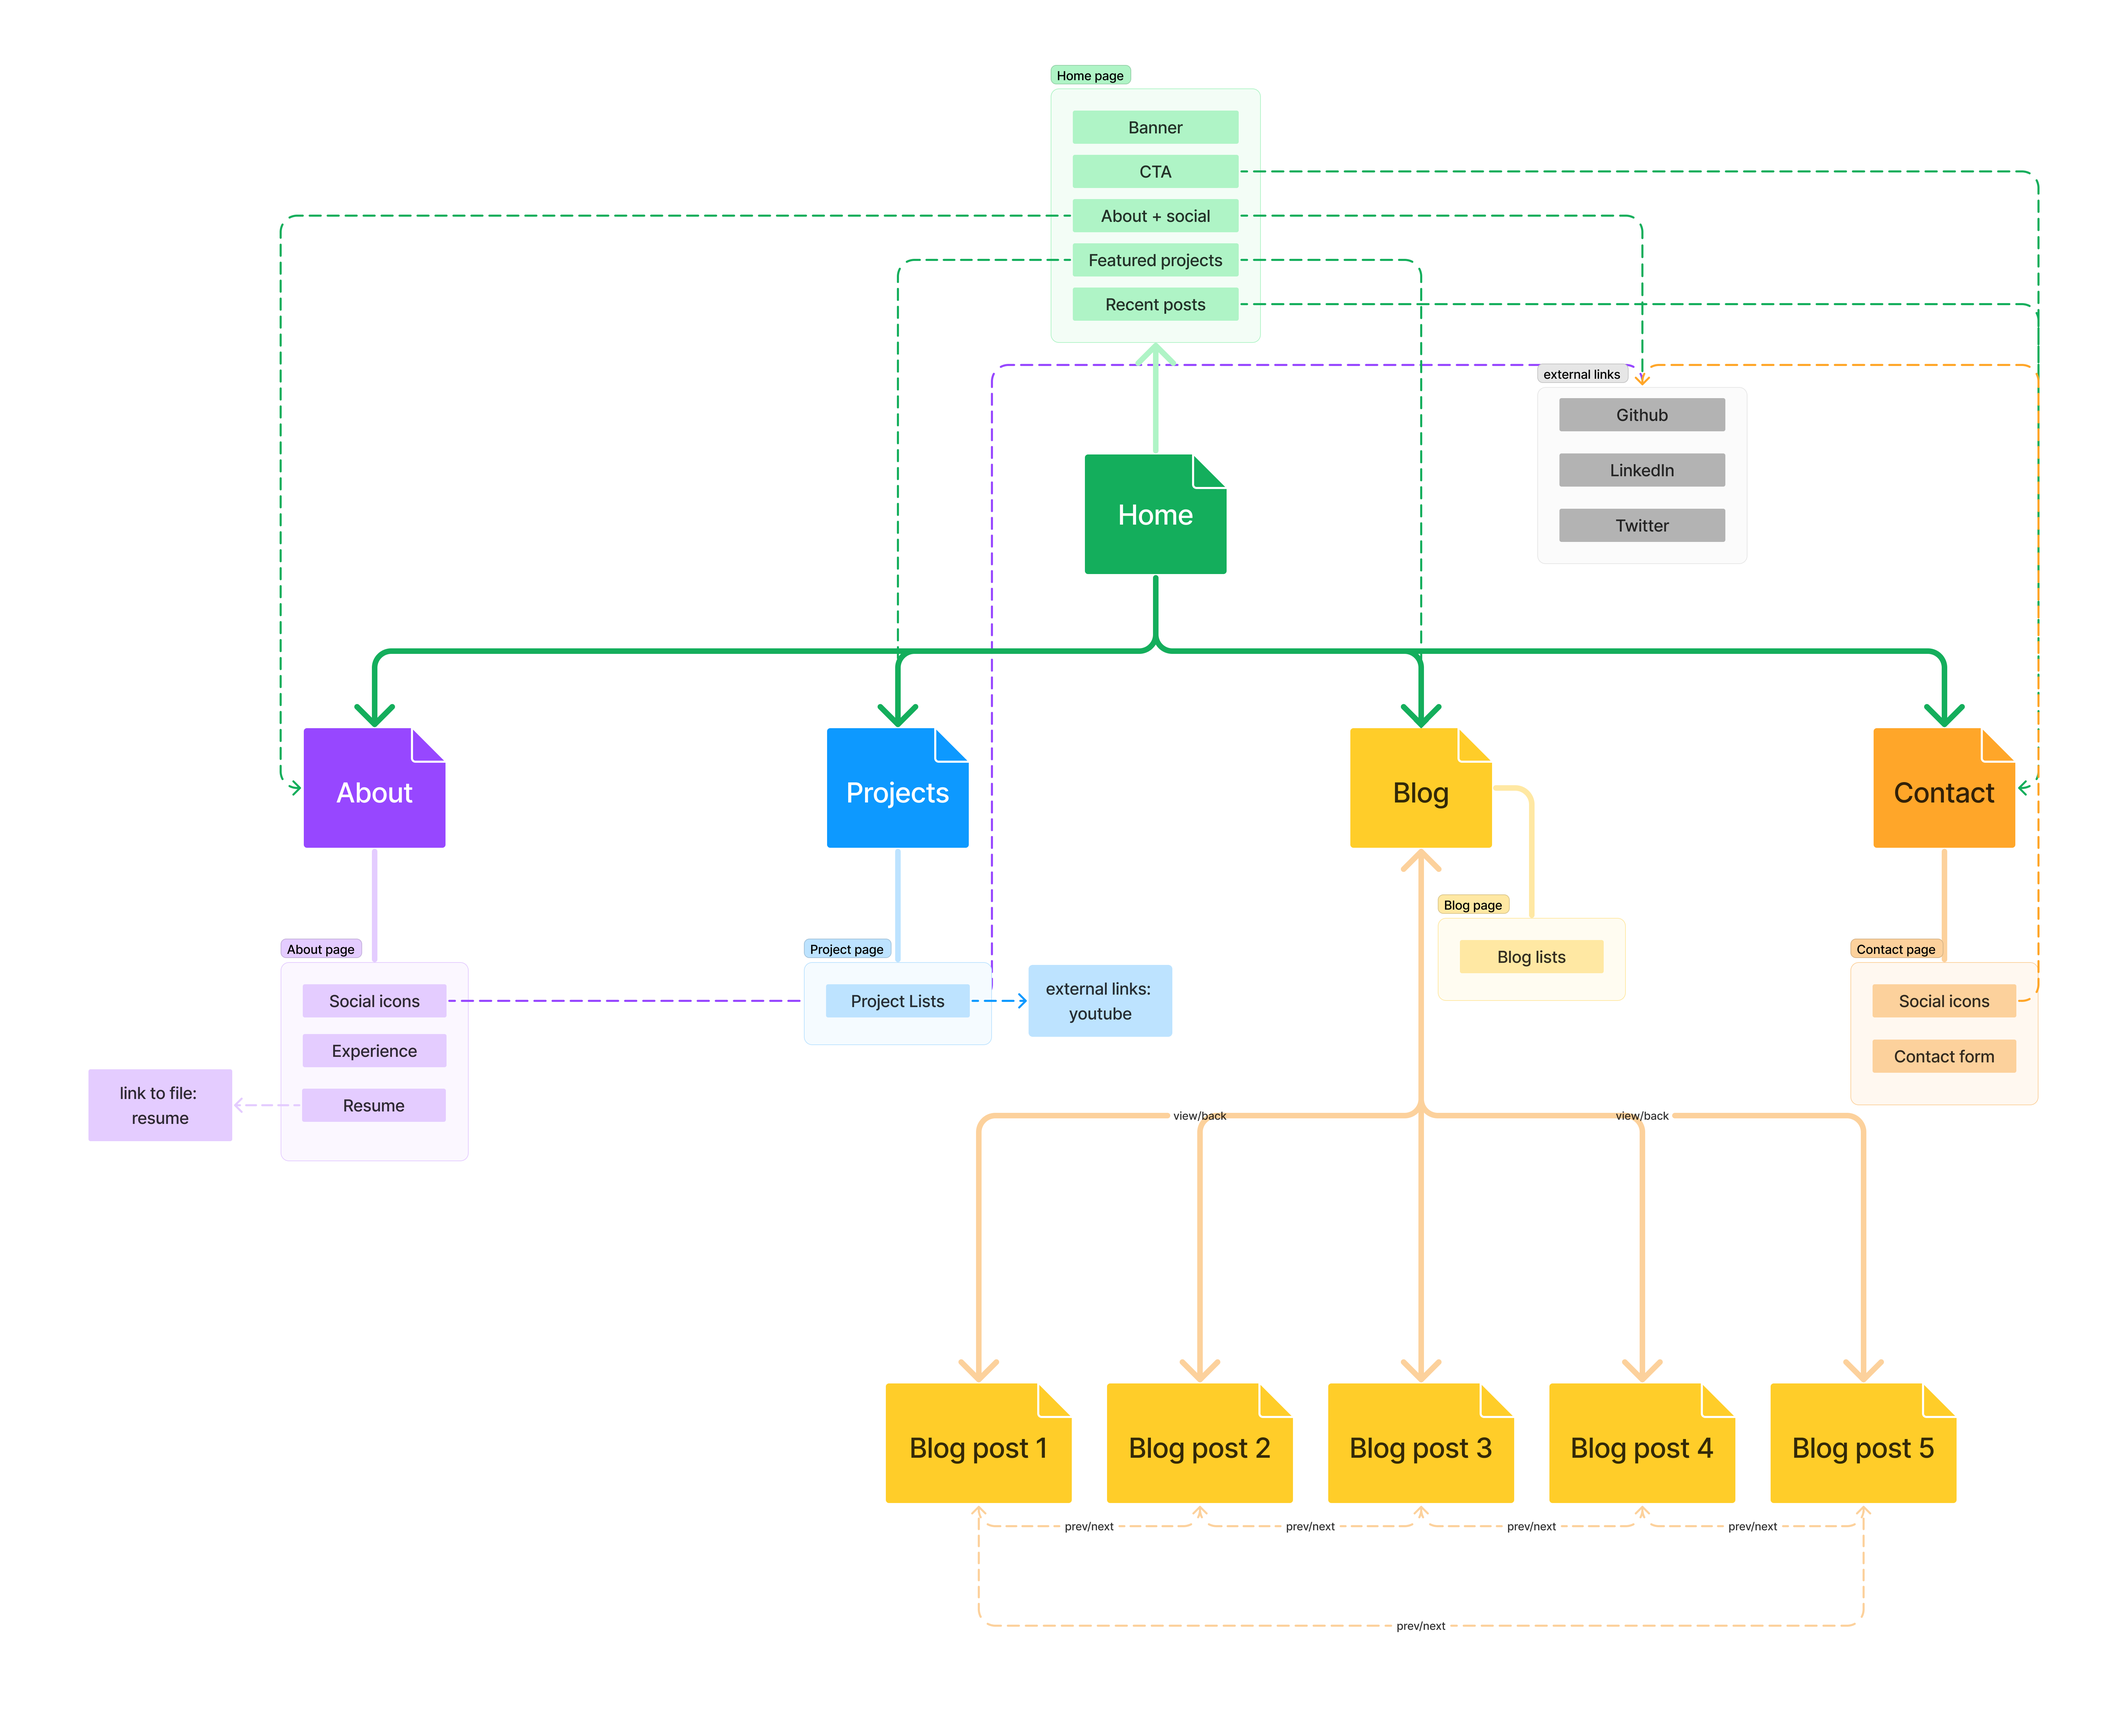
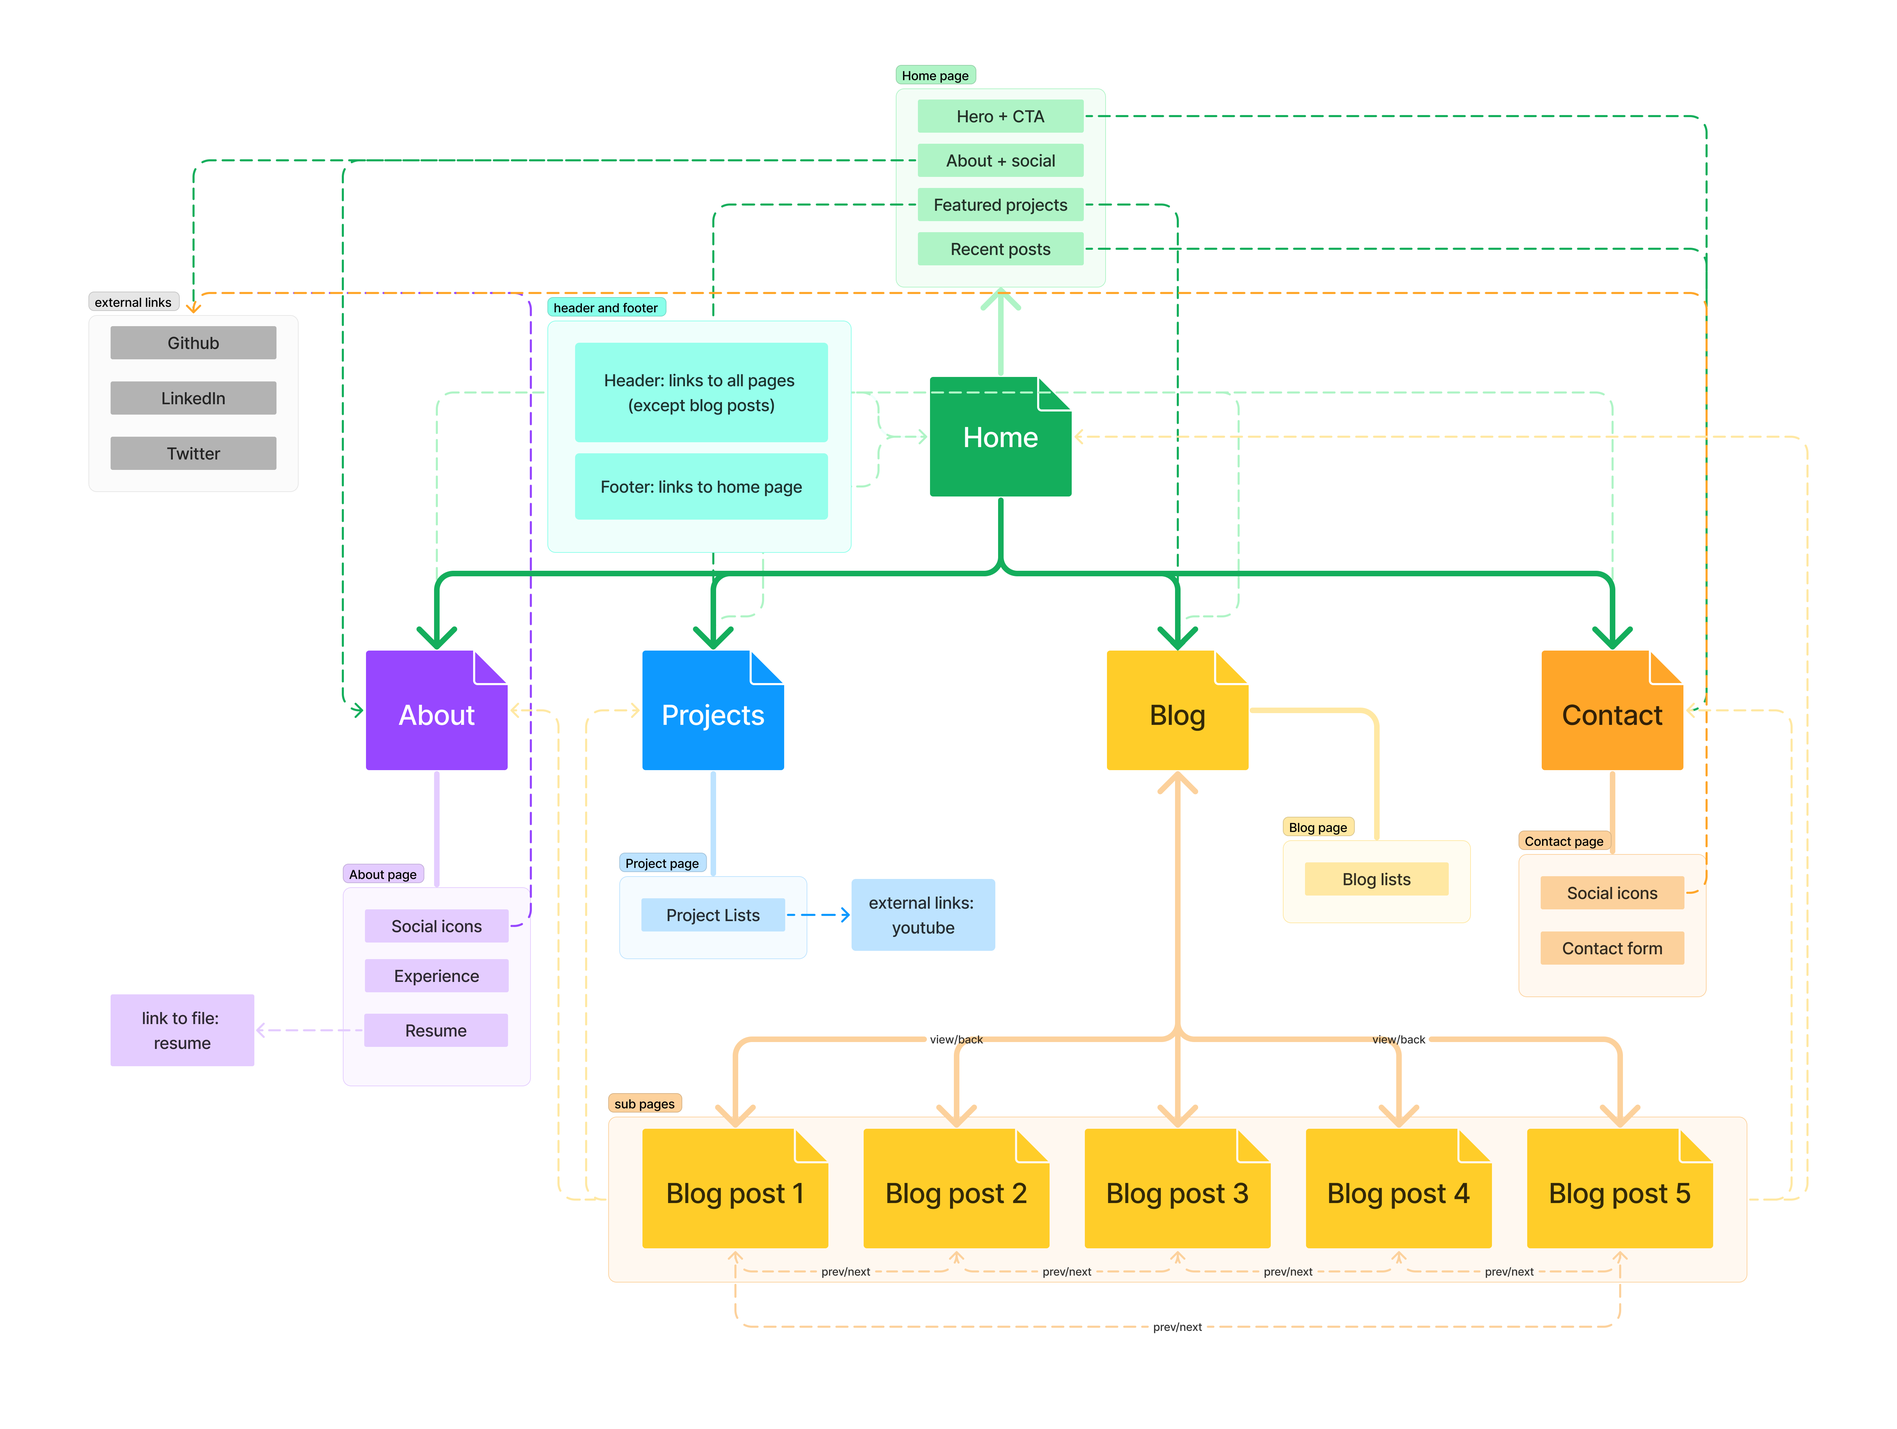
completed README

diff --git a/README.md b/README.md
@@ -4,7 +4,7 @@
 
 - [Deployed Website - Vercel](https://wenxuan-pan-portfolio.vercel.app/)
 - [Github Repo](https://github.com/wenxuan-pan/WenxuanPan_T1A2)
-- Slide deck presentation
+- Slide deck presentation (in progress)
 
 ## Folder structure
 
@@ -31,7 +31,24 @@ The target audience for the porfolio website is any potential employer and clien
 
 ### Functionality / features
 
-This website is divided into the following pages:
+This website includes the following pages:
+
+- Home page: Landing page that includes a hero section with CTA button (Get in touch) and summary content from all the other main pages, presenting an overview of the website and encouraging the viewer to get in touch with me and explore different pages of my website.
+- About page: Includes information on my coding experiences, skillsets, work history and interests, and a link to my resume. An image slider of cat pics is at the bottom of the page to add a bit of fun to my website.
+- Project page: Showcasing a list of my projects (currently placeholder content), with links of demo videos on youtube.
+- Blog page: A list of my blog articles, sorted as newest first. Clicking on each preview card will direct to the article page.
+- Contact page: includes a list of my social accounts, and a contact form to complete if the user wants to get in touch with me (will add functionality at later stages).
+- 5 pages of blog posts: includes a title section that looks like hero banner and grabs attention, and main content displayed afterwards.
+
+Features include:
+
+- Layout is responsive across different device width, include mobile, tablet and desktop.
+- Relative units (such as percentages and `rem`) and `max-width/height` are used for better responsiveness, making content adapt to different screens and font sizes.
+- Semantic html elements are used to achieve better accessibility.
+- A header and footer are included on all pages, which shows copyright information and navigates to all the main pages.
+- A page intro section on all main pages (blog, about, projects, contact) to help users navigate the site.
+- Using animation on landing page to attract user's attention.
+- Using hover effects on links and buttons to show they are clickable.
 
 ## Sitemap
 
@@ -85,8 +102,8 @@ _Note: Jump to Appendix section to view all screenshots_
 - [Vercel](https://vercel.com/) - I used this as my deployment platform
 - [W3C Markup Validation Service](https://validator.w3.org/#validate_by_input) I used this to check my html codes
 - [W3C CSS Validation Service](https://jigsaw.w3.org/css-validator/#validate_by_input) I used this to check my css codes
-- [Figma](https://www.figma.com/) - I used this to create sitemap, my logo and project previews
-- [Balsamiq](https://balsamiq.cloud/) - I used this to create my wireframes
+- [Figma](https://www.figma.com/) - I used this to create sitemap and project previews
+- [Balsamiq](https://balsamiq.cloud/) - I used this to create website wireframes
 - [Smooth Shadow](https://shadows.brumm.af/) - I used this to create drop shadow styles
 - [Icons8](https://icons8.com/) and [MingCute Icon](https://www.mingcute.com/) - I downloaded and used icons from these websites
 
